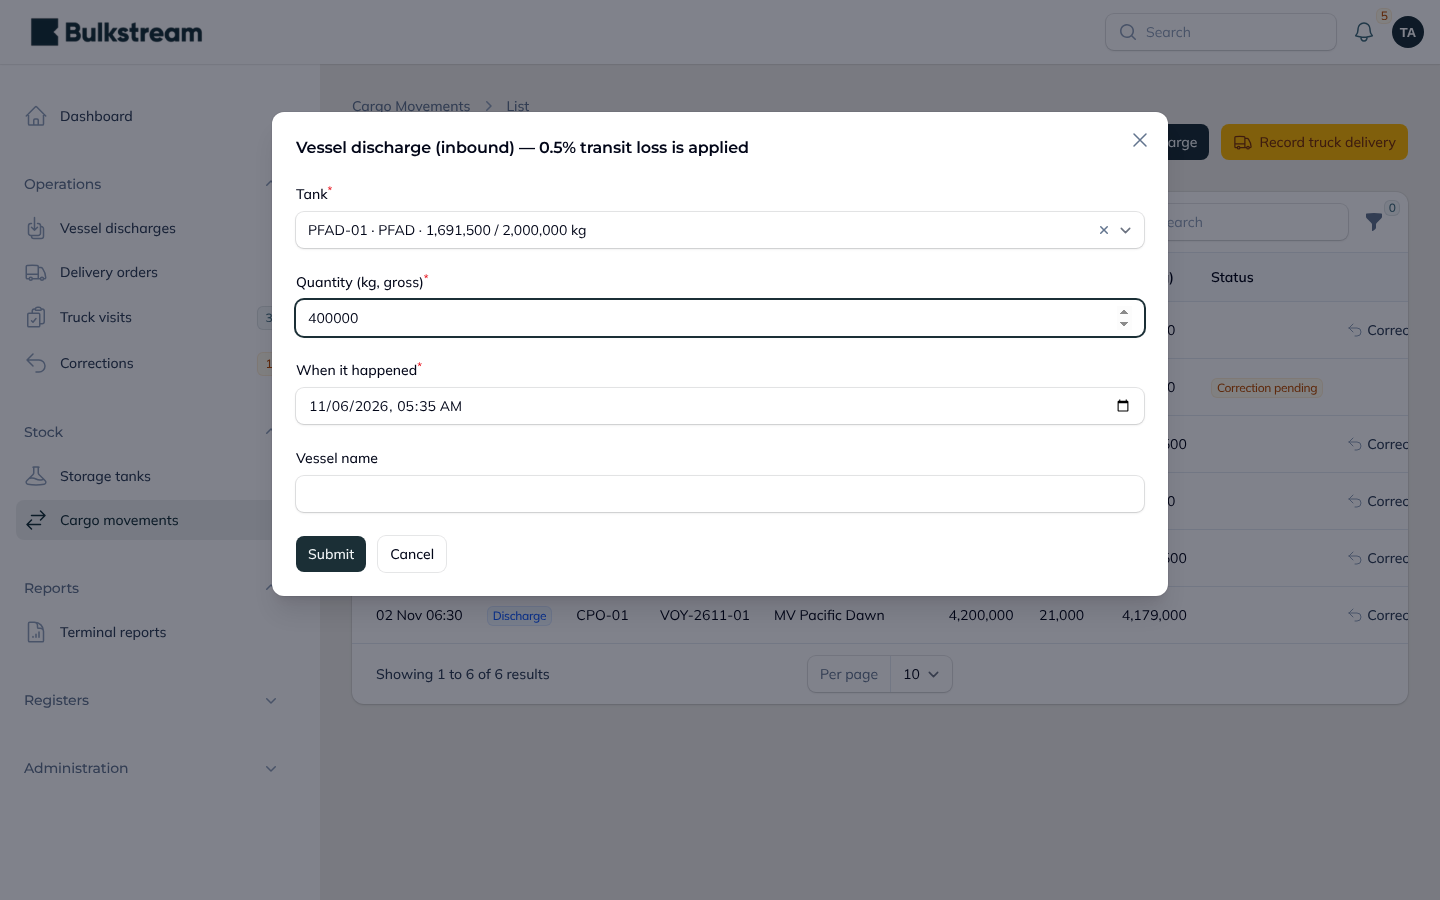
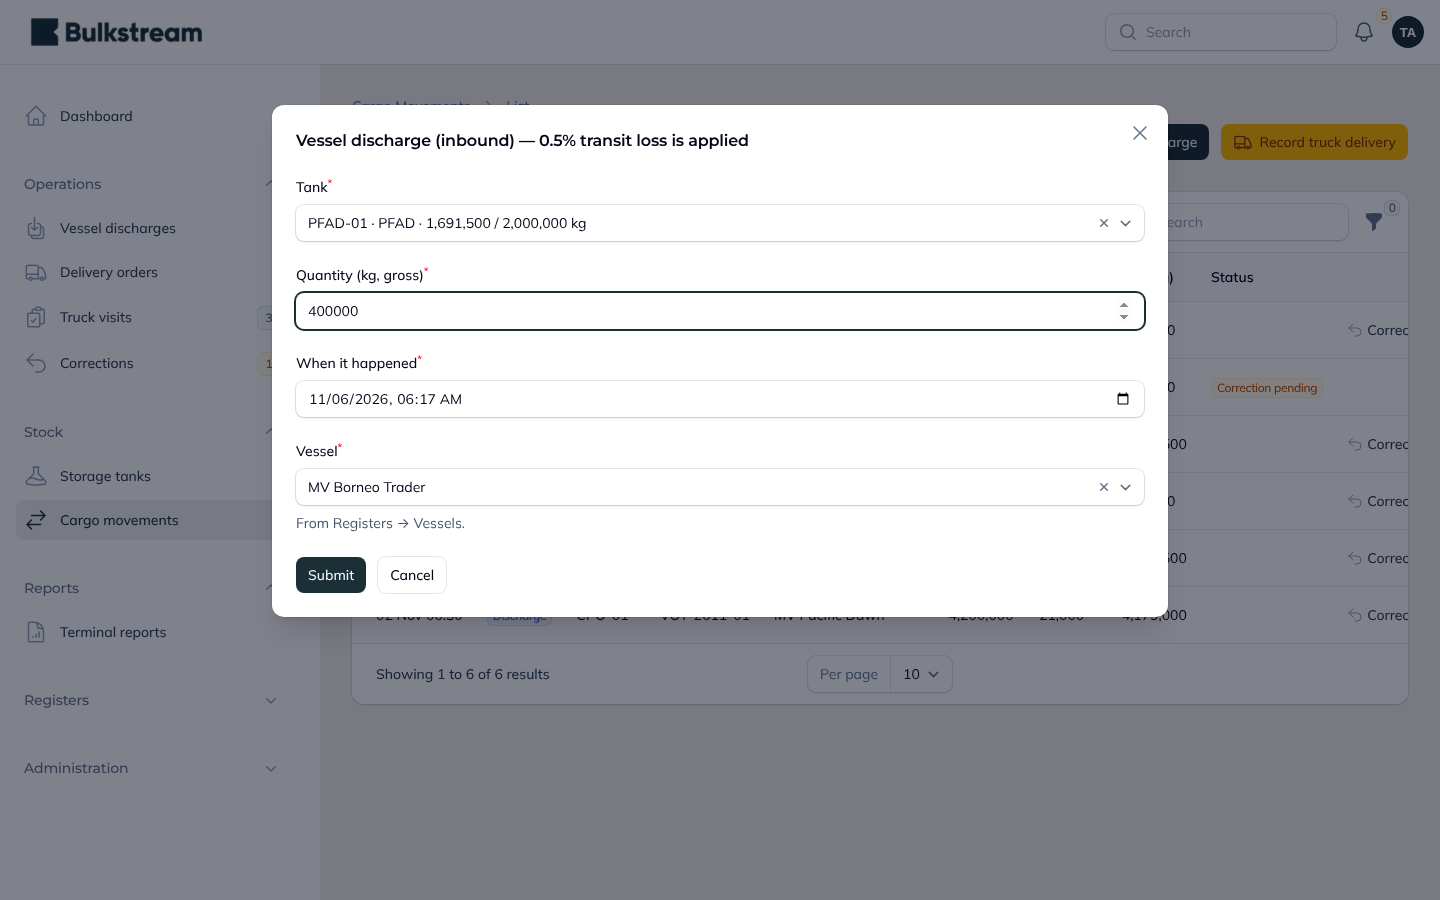
Pick the vessel and truck from the registers on the quick-entry buttons instead of typing them
The two ledger buttons had a free-text 'Vessel name' / 'Truck plate' field. They now offer only active
register entries and the field is required. Tests prove typed and retired values are refused.

diff --git a/tests/Feature/MovementFormTest.php b/tests/Feature/MovementFormTest.php
@@ -1,0 +1,74 @@
+<?php
+
+namespace Tests\Feature;
+
+use App\Domain\Access\Role;
+use App\Filament\Resources\CargoMovementResource\Pages\ListCargoMovements;
+use App\Models\CargoMovement;
+use App\Models\Tank;
+use App\Models\Truck;
+use App\Models\Vessel;
+use Illuminate\Foundation\Testing\RefreshDatabase;
+use Livewire\Livewire;
+use Tests\Support\RoleScenario;
+use Tests\TestCase;
+
+/** The quick-entry buttons pick the vessel / truck from the registers; typed text is not accepted. */
+class MovementFormTest extends TestCase
+{
+    use RefreshDatabase;
+    use RoleScenario;
+
+    protected function setUp(): void
+    {
+        parent::setUp();
+        $this->seedWithEdgeStates();
+        $this->loginAs(Role::Operator);
+    }
+
+    private function data(string $reference, string $tank, string $key): array
+    {
+        return ['tank_id' => Tank::where('code', $tank)->value('id'), 'quantity_kg' => 1000, 'occurred_at' => now()->toDateTimeString(), 'reference' => $reference, 'idempotency_key' => $key];
+    }
+
+    public function test_discharge_takes_a_registered_vessel(): void
+    {
+        $before = CargoMovement::count();
+        Livewire::test(ListCargoMovements::class)
+            ->callAction('discharge', $this->data(Vessel::where('active', true)->value('name'), 'CPO-02', 'mf-ok'))
+            ->assertHasNoActionErrors();
+        $this->assertSame($before + 1, CargoMovement::count());
+    }
+
+    public function test_discharge_refuses_typed_or_retired_vessels(): void
+    {
+        $before = CargoMovement::count();
+        foreach (['Typed Nonsense', Vessel::where('active', false)->value('name')] as $i => $name) {
+            Livewire::test(ListCargoMovements::class)
+                ->callAction('discharge', $this->data($name, 'CPO-02', "mf-bad-$i"))
+                ->assertHasActionErrors(['reference']);
+        }
+        $this->assertSame($before, CargoMovement::count());
+    }
+
+    public function test_delivery_takes_a_registered_truck_only(): void
+    {
+        $plate = Truck::where('active', true)->value('plate');
+        Livewire::test(ListCargoMovements::class)
+            ->callAction('delivery', $this->data($plate, 'CPO-01', 'mf-truck'))
+            ->assertHasNoActionErrors();
+        Livewire::test(ListCargoMovements::class)
+            ->callAction('delivery', $this->data('KXX 000X', 'CPO-01', 'mf-truck-bad'))
+            ->assertHasActionErrors(['reference']);
+        Livewire::test(ListCargoMovements::class)
+            ->callAction('delivery', $this->data(Truck::where('active', false)->value('plate'), 'CPO-01', 'mf-truck-old'))
+            ->assertHasActionErrors(['reference']);
+    }
+
+    public function test_the_party_is_required(): void
+    {
+        Livewire::test(ListCargoMovements::class)
+            ->callAction('discharge', $this->data('', 'CPO-02', 'mf-empty'))
+            ->assertHasActionErrors(['reference' => 'required']);
+    }
+}

diff --git a/app/Filament/Support/MovementForm.php b/app/Filament/Support/MovementForm.php
@@ -6,6 +6,8 @@ use App\Domain\Cargo\Actions\RecordTruckDelivery;
 use App\Domain\Cargo\Actions\RecordVesselDischarge;
 use App\Domain\Cargo\Exceptions\CargoException;
 use App\Models\Tank;
+use App\Models\Truck;
+use App\Models\Vessel;
 use Filament\Forms;
 use Filament\Notifications\Notification;
 use Illuminate\Support\Carbon;
@@ -14,7 +16,8 @@ use Illuminate\Support\Str;
 /** Shared modal form + handler for the two operator buttons. */
 class MovementForm
 {
-    public static function schema(string $partyLabel): array
+    /** @param 'vessel'|'truck' $party which register the vessel / truck is picked from */
+    public static function schema(string $party): array
     {
         return [
             Forms\Components\Select::make('tank_id')
@@ -31,7 +34,14 @@ class MovementForm
                 ->label('Quantity (kg, gross)')->numeric()->integer()->minValue(1)->required(),
             Forms\Components\DateTimePicker::make('occurred_at')
                 ->label('When it happened')->seconds(false)->default(now())->required(),
-            Forms\Components\TextInput::make('reference')->label($partyLabel)->maxLength(120),
+            // Picked from the register, never typed: one ship or truck is one record, spelled one way.
+            Forms\Components\Select::make('reference')
+                ->label($party === 'vessel' ? 'Vessel' : 'Truck')
+                ->options(fn () => $party === 'vessel'
+                    ? Vessel::where('active', true)->orderBy('name')->pluck('name', 'name')
+                    : Truck::where('active', true)->orderBy('plate')->pluck('plate', 'plate'))
+                ->searchable()->required()
+                ->helperText($party === 'vessel' ? 'From Registers → Vessels.' : 'From Registers → Trucks.'),
             // Same value is resubmitted on a double click, so it can never apply twice.
             Forms\Components\Hidden::make('idempotency_key')->default(fn () => (string) Str::uuid()),
         ];

diff --git a/app/Filament/Resources/CargoMovementResource/Pages/ListCargoMovements.php b/app/Filament/Resources/CargoMovementResource/Pages/ListCargoMovements.php
@@ -18,13 +18,13 @@ class ListCargoMovements extends ListRecords
                 ->label('Record vessel discharge')->icon('heroicon-o-arrow-down-tray')
                 ->authorize(fn () => auth()->user()?->role->canOperate() ?? false)
                 ->modalHeading('Vessel discharge (inbound) — 0.5% transit loss is applied')
-                ->schema(MovementForm::schema('Vessel name'))
+                ->schema(MovementForm::schema('vessel'))
                 ->action(fn (array $data) => MovementForm::discharge($data)),
             Action::make('delivery')
                 ->label('Record truck delivery')->icon('heroicon-o-truck')->color('warning')
                 ->authorize(fn () => auth()->user()?->role->canOperate() ?? false)
                 ->modalHeading('Truck delivery (outbound)')
-                ->schema(MovementForm::schema('Truck plate'))
+                ->schema(MovementForm::schema('truck'))
                 ->action(fn (array $data) => MovementForm::delivery($data)),
         ];
     }
